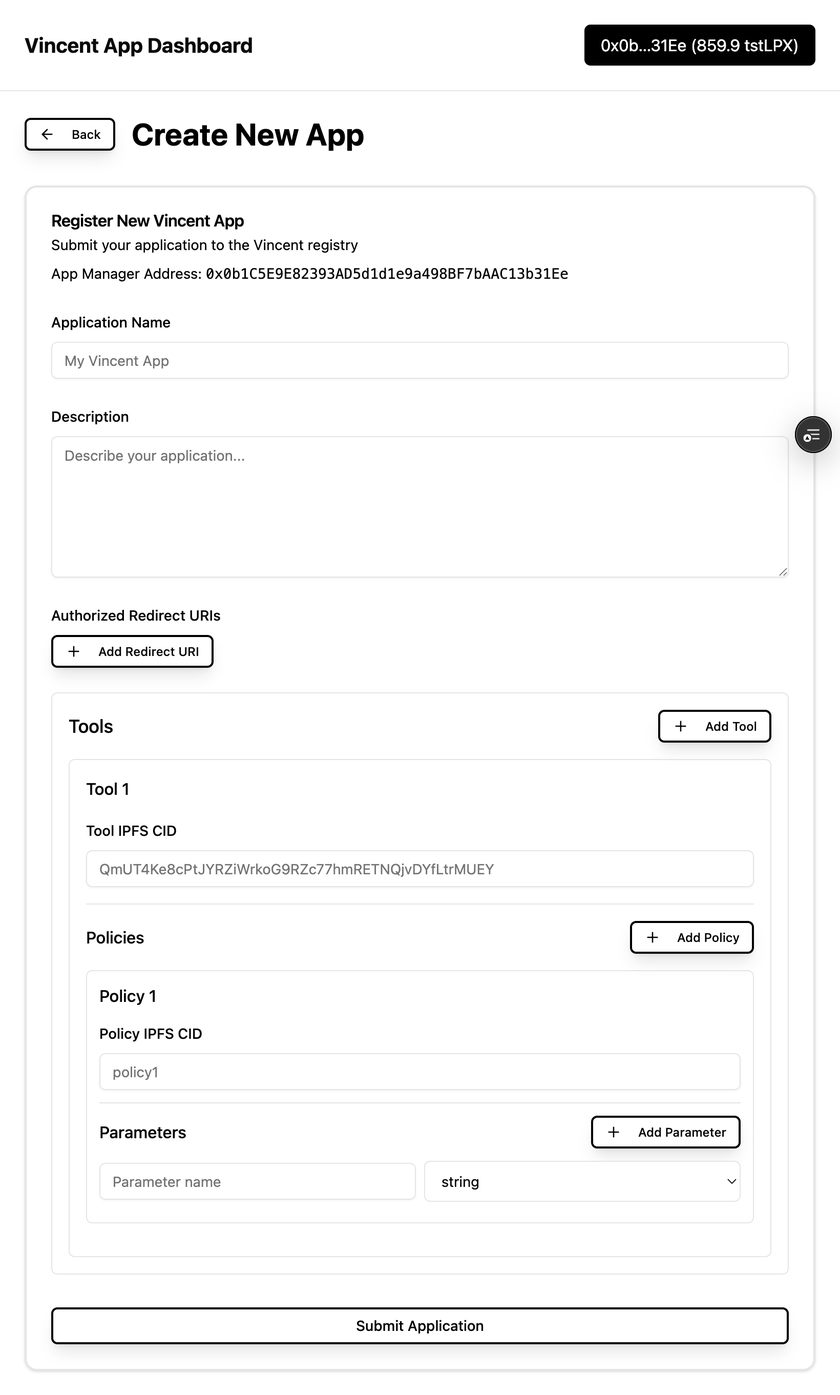
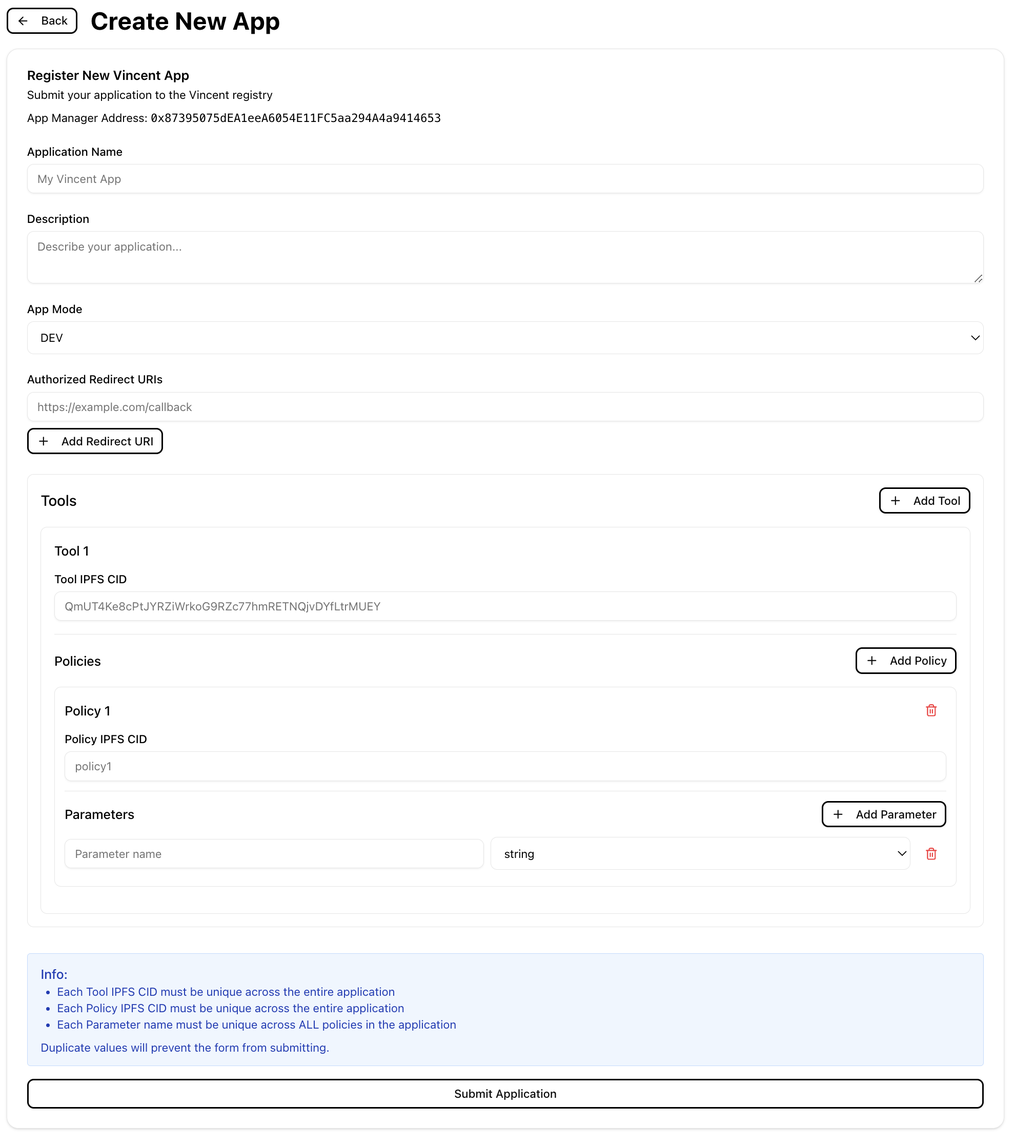
docs: final creating apps doc

diff --git a/packages/sdk/docs/Developers/App-Agent-Developers/Creating-Apps.md b/packages/sdk/docs/Developers/App-Agent-Developers/Creating-Apps.md
@@ -9,17 +9,25 @@ title: Creating Vincent Apps
   <p class="info-box-title">
     <span class="info-icon">Info</span> Note
   </p>
-  <p>In this guide, you'll create and register your first Vincent App using the <a href="https://dashboard.heyvincent.ai/">Vincent App Dashboard</a>. You’ll select from existing Vincent Tools and Policies, configure your App metadata, and register Vincent App Delegatees whom are authorized to execute Tools on behalf of your Vincent Users.</p>
+  <p>In this guide, you'll create and register your first Vincent App using the <a href="https://dashboard.heyvincent.ai/">Vincent App Dashboard</a>. You’ll select from existing Vincent Tools and Policies, configure your App metadata, and register the App Delegatees whom are authorized to execute your App's Tools.</p>
   <p>If you're unfamiliar with what a Vincent App is, checkout the <a href="./Getting-Started.md">Getting Started</a> guide to learn more.</p>
 </div>
 
-A Vincent App is composed of three key elements:
+A Vincent App is composed of four key elements:
 
-1. **Vincent Tools**: Modular, executable functions that define the operations your App can perform on behalf of its Users. Tools can interact with blockchains, APIs, databases, or any service reachable via JavaScript and HTTP requests. Each Tool is immutable once published and can only be executed under the conditions explicitly approved by the User ensuring transparent, tamper-proof behavior.
+1. **Vincent Tools**: Modular, executable functions that define the operations your App can perform on behalf of its Users.
 
-2. **Vincent Policies**: Programmable guardrails that govern when and how Vincent Tools can be executed. Policies are immutable once published, and are configurable per User ensuring that every Tool execution is tightly scoped to each User’s explicit intent.
+   - Tools can interact with blockchains, APIs, databases, or any service reachable via JavaScript and HTTP requests.
+   - Each Tool is immutable once published and can only be executed under the conditions explicitly approved by the User ensuring transparent, tamper-proof behavior.
 
-3. **Vincent Agent Wallets**: Non-custodial smart wallets that enable secure, automated interactions between your Vincent App and its Users. Each Agent Wallet is powered by Lit Protocol's [Programmable Key Pairs (PKPs)](https://developer.litprotocol.com/user-wallets/pkps/overview), allowing Users to retain full control over their keys and assets while delegating narrowly scoped signing permissions for each Vincent Tool used by a Vincent App.
+2. **Vincent Policies**: Programmable guardrails that govern when and how Vincent Tools can be executed.
+
+   - Policies are immutable once published, and are configurable per User ensuring that every Tool execution is tightly scoped to each User’s explicit intent.
+
+3. **Vincent App Delegatees**: Ethereum addresses that are authorized by your App to execute the Tools Vincent Users have permitted your App to execute on their behalf.
+
+4. **Vincent Agent Wallets**: Non-custodial wallets that enable secure, automated interactions between your Vincent App and its Users.
+   - Each Agent Wallet is powered by Lit Protocol's [Programmable Key Pairs (PKPs)](https://developer.litprotocol.com/user-wallets/pkps/overview), allowing Users to retain full control over their keys and assets while delegating narrowly scoped signing permissions for each Vincent Tool used by a Vincent App.
 
 # Defining Your Vincent App
 
@@ -38,17 +46,17 @@ Vincent Tools define the executable operations your App can perform on behalf of
   <p>For now you'll need to manually copy and paste the IPFS CID of each Vincent Tool you'd like to use in your App into the Vincent App Dashboard when registering your App.</p>
   <p>The below table includes links to the IPFS CID of each Tool that will be automatically updated as new iterations of the Tool are published.</p>
 
-  <p>Join the <a href="https://t.me/c/2038294753/3289">Vincent Community</a> to stay up to date.</p>
+  <p>Join the <a href="https://t.me/+aa73FAF9Vp82ZjJh">Vincent Community</a> to stay up to date.</p>
 </div>
 
 The following Vincent Tools have been published by the Vincent team and are available to use in your Vincent App:
 
-| Tool                                                                                                                         | Description                                                                                                                                           | IPFS CID                                                                                                                             |
-| ---------------------------------------------------------------------------------------------------------------------------- | ----------------------------------------------------------------------------------------------------------------------------------------------------- | ------------------------------------------------------------------------------------------------------------------------------------ |
-| [ERC20 Token Approval](https://github.com/LIT-Protocol/Vincent/tree/main/packages/vincent-tools/vincent-tool-erc20-approval) | Allows Vincent Apps to get token approvals from Vincent Users to execute ERC20 token transfers                                                        | [Link](https://github.com/LIT-Protocol/Vincent/blob/main/packages/apps/tool-erc20-approval/src/generated/vincent-tool-metadata.json) |
-| [Uniswap Swap Tool](https://github.com/LIT-Protocol/Vincent/tree/main/packages/vincent-tools/vincent-tool-uniswap-swap)      | Allows Vincent Apps to perform swaps using Uniswap on any [chains supported by the Uniswap SDK](https://api-docs.uniswap.org/guides/supported_chains) | [Link](https://github.com/LIT-Protocol/Vincent/blob/main/packages/apps/tool-uniswap-swap/src/generated/vincent-tool-metadata.json)   |
+| Tool                                                                                                        | Description                                                                                                                                          | IPFS CID                                                                                                                             |
+| ----------------------------------------------------------------------------------------------------------- | ---------------------------------------------------------------------------------------------------------------------------------------------------- | ------------------------------------------------------------------------------------------------------------------------------------ |
+| [ERC20 Token Approval](https://github.com/LIT-Protocol/Vincent/tree/main/packages/apps/tool-erc20-approval) | Allows Vincent Apps to get token approvals from Vincent Users to execute ERC20 token transfers                                                       | [Link](https://github.com/LIT-Protocol/Vincent/blob/main/packages/apps/tool-erc20-approval/src/generated/vincent-tool-metadata.json) |
+| [Uniswap Swap Tool](https://github.com/LIT-Protocol/Vincent/tree/main/packages/apps/tool-uniswap-swap)      | Allows Vincent Apps to perform swaps using Uniswap on any [chain supported by the Uniswap SDK](https://api-docs.uniswap.org/guides/supported_chains) | [Link](https://github.com/LIT-Protocol/Vincent/blob/main/packages/apps/tool-uniswap-swap/src/generated/vincent-tool-metadata.json)   |
 
-Alternatively, you can checkout the [Creating a Vincent Tool](../Tool-Developers/Creating-Tools.md) guide to learn how to create your own Vincent Tools to perform any on or off-chain action your Vincent App needs.
+Additionally, you can checkout the [Creating a Vincent Tool](../Tool-Developers/Creating-Tools.md) guide to learn how to create your own Vincent Tools to perform any on or off-chain action your Vincent App needs.
 
 # 2. Selecting Vincent Policies
 
@@ -58,17 +66,17 @@ Vincent Policies are programmable constraints that govern when and how each Vinc
   <p class="info-box-title">
     <span class="info-icon">Info</span> Note
   </p>
-  <p>As with selecting which Vincent Tool you'd like to use in your App, you'll need to manually copy and paste the IPFS CID of each Vincent Policy you'd like to use in your App into the Vincent App Dashboard when registering your App.</p>
+  <p>As with selecting which Vincent Tools you'd like to use in your App, you'll need to manually copy and paste the IPFS CID of each Vincent Policy you'd like to use for each Tool into the Vincent App Dashboard when registering your App.</p>
   <p>The below table includes links to the IPFS CID of each Policy that will be automatically updated as new iterations of the Policy are published.</p>
 </div>
 
 The following Vincent Policies have been published by the Vincent team and are available to use in your Vincent App:
 
-| Tool                                                                                                                           | Description                                                                                       | IPFS CID                                                                                                                                 |
-| ------------------------------------------------------------------------------------------------------------------------------ | ------------------------------------------------------------------------------------------------- | ---------------------------------------------------------------------------------------------------------------------------------------- |
-| [Daily Spending Limit](https://github.com/LIT-Protocol/Vincent/tree/main/packages/vincent-tools/vincent-policy-spending-limit) | Allows Vincent Users to restrict the amount of USD spent per day on their behalf by a Vincent App | [Link](https://github.com/LIT-Protocol/Vincent/blob/main/packages/apps/policy-spending-limit/src/generated/vincent-policy-metadata.json) |
+| Tool                                                                                                          | Description                                                                                       | IPFS CID                                                                                                                                 |
+| ------------------------------------------------------------------------------------------------------------- | ------------------------------------------------------------------------------------------------- | ---------------------------------------------------------------------------------------------------------------------------------------- |
+| [Daily Spending Limit](https://github.com/LIT-Protocol/Vincent/tree/main/packages/apps/policy-spending-limit) | Allows Vincent Users to restrict the amount of USD spent per day on their behalf by a Vincent App | [Link](https://github.com/LIT-Protocol/Vincent/blob/main/packages/apps/policy-spending-limit/src/generated/vincent-policy-metadata.json) |
 
-Alternatively, you can checkout the [Creating a Vincent Policy](../Policy-Developers/Creating-Policies.md) guide to learn how to create your own Vincent Policies to govern the execution of Vincent Tools.
+Additionally, you can checkout the [Creating a Vincent Policy](../Policy-Developers/Creating-Policies.md) guide to learn how to create your own Vincent Policies to govern the execution of Vincent Tools.
 
 # 3. Registering Your Vincent App
 
@@ -76,14 +84,16 @@ Alternatively, you can checkout the [Creating a Vincent Policy](../Policy-Develo
   <p class="info-box-title">
     <span class="info-icon">Info</span> Before registering your Vincent App
   </p>
-  <p>Registering an App requires that you have tokens on Lit Protocol's Yellowstone blockchain to pay for gas. You can use <a href="https://chronicle-yellowstone-faucet.getlit.dev/">this faucet</a> to get the Lit test tokens used to pay for gas when registering your App.</p>
+  <p>Registering an App requires that you have tokens on Lit Protocol's Yellowstone blockchain to pay for gas. You can use <a href="https://chronicle-yellowstone-faucet.getlit.dev/">this faucet</a> to get the Lit test tokens used to pay for registering your App.</p>
 </div>
 
 Once you've selected your Vincent Tools and Policies, you'll need to register your App using the [Vincent App Dashboard](https://dashboard.heyvincent.ai/).
 
 ## Connecting your App Management Wallet to the App Dashboard
 
-Before you can register your App, you'll need to connect an Ethereum wallet to the App Dashboard. This wallet will be the Vincent App Manager for your new App and is responsible for creating new App Versions, defining which Vincent Tools and Policies are used in each App Version, as well as the managing the App Delegatees that are permitted to execute Tools on behalf of your App's Vincent Users.
+Before you can register your App, you'll need to connect an Ethereum wallet to the App Dashboard.
+
+This wallet will be the Vincent App Manager for your new App and is responsible for creating new App Versions, defining which Vincent Tools and Policies are used in each App Version, as well as the managing the App Delegatees that are permitted to execute Tools on behalf of your App's Vincent Users.
 
 ![Connect App Management Wallet](../images/connect-app-management-wallet.png)
 
@@ -95,21 +105,21 @@ After connecting your Vincent App Manager wallet to the App Dashboard, you can c
 
 On this screen you'll need to define the following:
 
-### Application Name
+### Application Name & Description
 
-This is the name of your App that will be used to identify your App within the Vincent ecosystem. It's also displayed to the Vincent User when they are interacting with the Vincent Consent page to permit delegation to your App and configure their Policy parameters.
+This is the name of your App that will be used to identify your App within the Vincent ecosystem, and the description used to detail what your App is offering to do on behalf of its Users.
 
-In the example image, `Automated Memecoin Dollar-Cost-Averaging` is the name of the Vincent App, and `This demo agent automatically identifies and purchases the top-performing Base memecoin on your predefined schedule.` is the description of the App.
+It's also displayed to the Vincent User when they are interacting with the Vincent Consent page to permit delegation to your App and configure their Policy parameters.
+
+In this example image, `Automated Memecoin Dollar-Cost-Averaging` is the name of the Vincent App, and `This demo agent automatically identifies and purchases the top-performing Base memecoin on your predefined schedule.` is the description of the App:
 
 ![Consent UI](../images/consent-ui.png)
 
-### Description
-
-This description will also be displayed to your Vincent Users when they're displayed the Vincent Consent page
-
 ### App Mode
 
-Defines the current deployment status of your App. This setting will be used to filter the Apps displayed in the Vincent App Registry, so that `DEV` and `TEST` Apps are not displayed to Vincent Users when looking at the Registry. Use:
+Defines the current deployment status of your App.
+
+This setting will be used to filter the Apps displayed in the Vincent App Registry, so that `DEV` and `TEST` Apps are not displayed to Vincent Users when looking at the Registry. Use:
 
 - `DEV` If you're currently developing the Vincent App and it's not ready to be used by your Vincent Users
 - `TEST` If you're currently testing the Vincent App with your Vincent Users, and want to make the distinction that your App is not yet ready for production
@@ -119,40 +129,50 @@ Defines the current deployment status of your App. This setting will be used to 
 
 This is a list of URLs that are authorized to receive the Json Web Token (JWT) from the Vincent Consent page.
 
-After Vincent Users have permitted delegation to your App, or are logging back into your App using Vincent, these redirect URIs are the only valid locations they can be redirected to from the Vincent Consent page. Included in the URL parameters of the redirect URI is the Json Web Token (JWT) that is given to your App to identify the Vincent User and the App Version they've authorized, so that you can know which Vincent Tools and Policies the User has permitted you to execute on their behalf.
+After Vincent Users have permitted delegation to your App, or are logging back into your App using Vincent, these redirect URIs are the only valid locations they can be redirected to from the Vincent Consent page back to your App.
+
+Included in the URL parameters of the redirect URI is a Json Web Token (JWT) that is given to your App to identify the Vincent User and the App Version they've authorized. This allows you to know which Vincent Tools and Policies the User has permitted your App to execute on their behalf.
 
 ### Tools
 
-This section is where you'll define the IPFS CIDs of each Vincent Tool that will be used in your App. You can copy and paste the IPFS CID of each Tool you'd like to use in your App into this section. For the available Tools, see the [Selecting Vincent Tools](#1-selecting-vincent-tools) section which contains links to the IPFS CIDs for each Tool, or use the IPFS CID of any custom Tool you've developed.
+This section is where you'll define the IPFS CIDs of each Vincent Tool that will be used in your App. You can copy and paste the IPFS CID of each Tool you'd like your App to use into this section.
+
+For the available Tools, see the [Selecting Vincent Tools](#1-selecting-vincent-tools) section which contains links to the IPFS CIDs for each Tool, or use the IPFS CID of any custom Tool you've developed.
+
+> **Note:** The [Creating a Vincent Tool](../Tool-Developers/Creating-Tools.md) guide contains instructions for how to create your own Vincent Tools to perform any on or off-chain action your Vincent App needs.
 
 #### Policies
 
-Each Vincent Tool has a list of supported Vincent Policies that can govern the execution of the Tool. It's up to you to select from the Tool's supported Policies which Policies your Users will have the option to enable and configure for each Tool your App uses.
+Each Vincent Tool has a list of supported Vincent Policies that can govern the execution of the Tool. It's up to you to select which Policies from the Tool's supported Policies your Users will have the option to enable and configure for each Tool your App uses.
 
 You can add Policies for each Tool by clicking the `Add Policy` button and copy and pasting the IPFS CID of each Policy.
 
 For the Tools mentioned in the [Selecting Vincent Tools](#1-selecting-vincent-tools) section, the following Policies are supported:
 
-| Tool | Supported Policies | Policy IPFS CID |
-| [ERC20 Token Approval](https://github.com/LIT-Protocol/Vincent/tree/main/packages/vincent-tools/vincent-tool-erc20-approval) | None | - |
-| [Uniswap Swap Tool](https://github.com/LIT-Protocol/Vincent/tree/main/packages/vincent-tools/vincent-tool-uniswap-swap) | [Daily Spending Limit](https://github.com/LIT-Protocol/Vincent/tree/main/packages/vincent-tools/vincent-policy-spending-limit) | [Link](https://github.com/LIT-Protocol/Vincent/blob/main/packages/apps/policy-spending-limit/src/generated/vincent-policy-metadata.json)
+| Tool                                                                                                        | Supported Policies                                                                                            | Policy IPFS CID                                                                                                                          |
+| ----------------------------------------------------------------------------------------------------------- | ------------------------------------------------------------------------------------------------------------- | ---------------------------------------------------------------------------------------------------------------------------------------- |
+| [ERC20 Token Approval](https://github.com/LIT-Protocol/Vincent/tree/main/packages/apps/tool-erc20-approval) | None                                                                                                          | -                                                                                                                                        |
+| [Uniswap Swap Tool](https://github.com/LIT-Protocol/Vincent/tree/main/packages/apps/tool-uniswap-swap)      | [Daily Spending Limit](https://github.com/LIT-Protocol/Vincent/tree/main/packages/apps/policy-spending-limit) | [Link](https://github.com/LIT-Protocol/Vincent/blob/main/packages/apps/policy-spending-limit/src/generated/vincent-policy-metadata.json) |
 
 ##### Policy Parameters
 
-Each Policy has parameters that can be configured by the Vincent User to explicitly define the conditions under which the Tool can be executed. This section is where you'll define the parameters for each Policy that can be configured by the Vincent User for the specific Tool it's associated with.
+Each Policy has parameters that can be configured by the Vincent User to explicitly define the conditions under which the Tool can be executed.
 
-Each Policy has a parameter name and type. The name and type of each parameter must match the name and type the Policy is expecting.
+This section is where you'll define the parameters for each Policy that can be configured by the Vincent User for the specific Tool it's associated with.
+
+Each Policy has a parameter name and type, where the name and type of each parameter must match what the Policy is expecting.
 
 For the Policies mentioned in the [Selecting Vincent Policies](#2-selecting-vincent-policies) section, the following parameters are supported:
 
-| Policy | Parameter Name | Parameter Type |
-| [Daily Spending Limit](https://github.com/LIT-Protocol/Vincent/tree/main/packages/vincent-tools/vincent-policy-spending-limit) | `maxDailySpendingLimitInUsdCents` | `uint256` |
+| Policy                                                                                                        | Parameter Name                    | Parameter Type |
+| ------------------------------------------------------------------------------------------------------------- | --------------------------------- | -------------- |
+| [Daily Spending Limit](https://github.com/LIT-Protocol/Vincent/tree/main/packages/apps/policy-spending-limit) | `maxDailySpendingLimitInUsdCents` | `uint256`      |
 
 After defining the above details for your App, you can click on the `Submit Application` button to create your App. This will prompt you to sign a transaction using your App Management Wallet to register your App on-chain using the Lit Protocol [Chronicle Yellowstone blockchain](https://developer.litprotocol.com/connecting-to-a-lit-network/lit-blockchains/chronicle-yellowstone).
 
 ## Adding Delegatees to your App
 
-In order to execute your App's Vincent Tools, you'll need to register App Delegatees. These delegatees are defined as Ethereum addresses that are authorized by your App to execute the Tools Vincent Users have permitted your App to execute on their behalf.
+In order to execute your App's Vincent Tools, you'll need to register App Delegatees. These delegatees are defined as Ethereum addresses that are authorized by your App to execute the Tools Vincent Users have permitted for your App.
 
 After creating your App, you'll be redirected to the dashboard overview screen. Click the box with the name of the App you just created, and you'll be taken to the App's settings screen.
 
@@ -163,8 +183,8 @@ Next click the `Manage Delegatees` button to add the App Delegatees you'd like t
 You will now be given two buttons:
 
 - `Generate Delegatee` - This will generate a new Ethereum wallet giving you the private key and Ethereum address of the new wallet
-  - Use this option if you don't have an existing wallet you'd like to use as a App Delegatee
-- `Add Delegatee` - This will prompt you to provide the Ethereum address of the existing wallet you'd like to authorize as a App Delegatee
+  - Use this option if you don't have an existing wallet you'd like to use as an App Delegatee
+- `Add Delegatee` - This will prompt you to provide the Ethereum address of an existing wallet you'd like to authorize as an App Delegatee
 
 Whether you choose to generate a new wallet or add an existing wallet, you'll be prompted to sign a transaction using your App Management Wallet to register the App Delegatee on-chain using the Lit Protocol [Chronicle Yellowstone blockchain](https://developer.litprotocol.com/connecting-to-a-lit-network/lit-blockchains/chronicle-yellowstone).
 
@@ -184,28 +204,27 @@ After selecting the Authorized Redirect URI, click on the `Copy Application URL`
 https://dashboard.heyvincent.ai/appId/526/consent?redirectUri=https%3A%2F%2Fyour-redirect-uri.com
 ```
 
-You can now share this link to allow people to delegate the ability to execute your App's Vincent Tools on their behalf.
+You can now share this link to allow Users to delegate the ability to execute your App's Vincent Tools on their behalf.
 
 # Wrapping Up
 
-You’ve now learned how to create and register a Vincent App using the [Vincent App Dashboard](https://dashboard.heyvincent.ai/). From selecting Tools and Policies to configuring App metadata and adding Delegatees, you’ve completed the full setup process to launch your Vincent App and start executing Vincent Tools on behalf of your Vincent Users.
+You’ve now learned how to create and register a Vincent App using the [Vincent App Dashboard](https://dashboard.heyvincent.ai/).
+
+From selecting Tools and Policies to configuring App metadata and adding Delegatees, you’ve completed the full setup process to launch your Vincent App and start executing Vincent Tools on behalf of your Vincent Users.
 
 Here’s a quick recap of what you covered:
 
-- Vincent Apps are composed of Vincent Tools, Policies, and App Delegatees, enabling your app to perform trusted actions on behalf of users.
-- You can select from published Tools and Policies, or define your own to support any on-chain or off-chain use case.
-- When registering your App, you’ll configure App metadata, authorize redirect URIs, and define which Tools and Policies your app will support in it's App Version.
-- After registration, you’ll add Delegatees as authorized Ethereum addresses that can execute Tools on behalf of users.
-- Finally, you’ll generate a Vincent Consent URL to let users review your App, authorize the Tools it uses, and configure Policy parameters.
-
-- **Understand the Core Concepts:** A Vincent App is composed of Vincent Tools (what your App can do), Vincent Policies (User defined guardrails), and App Delegatees (Ethereum addresses authorized to execute Tools). These components work together to enable trusted automation without sacrificing User control.
-- **Select Vincent Tools:** Choose from existing Tools like ERC20 Approvals or Uniswap Swaps, or build your own Tools to define the actions your App can perform on behalf of it's Users.
-- **Select Vincent Policies:** Add programmable constraints to each Tool such as spending limits or token allowlists that ensure each execution respects the User’s intent.
-- **Register Your App:** Use the Dashboard to define your App including details such as it's name, description, authorized redirect URIs, and the selected Tools and Policies.
-- **Add Delegatees:** Specify the Ethereum addresses that will act on behalf of your Vincent App to execute Tools Users have permitted.
-- **Share Your App Link:** Generate a Vincent Consent URL that lets Users delegatee access to their Vincent Agent Wallets, so that your App Delegatees can execute Tools on their behalf.
+- **Understanding the Core Concepts:** A Vincent App is composed of the following components that work together to enable trusted automation without sacrificing User control:
+  - Vincent Tools (what your App can do)
+  - Vincent Policies (User defined guardrails)
+  - App Delegatees (Ethereum addresses authorized to execute Tools)
+- **Selecting Vincent Tools:** Choose from existing Tools like ERC20 Approvals or Uniswap Swaps, or build your own Tools to define the actions your App can perform on behalf of it's Users.
+- **Selecting Vincent Policies:** Add programmable constraints to each Tool such as spending limits or token allowlists that ensure each execution respects the User’s intent.
+- **Registering Your App:** Use the Vincent App Dashboard to define your App including details such as it's name, description, authorized redirect URIs, and the selected Tools and Policies.
+- **Adding Delegatees:** Specify the Ethereum addresses that will act on behalf of your Vincent App to execute Tools Users have permitted.
+- **Generating Your App Link:** Generate a Vincent Consent URL that lets Users delegatee access to their Vincent Agent Wallets, so that your App Delegatees can execute Tools on their behalf.
 
 ## Next Steps
 
-- If your App requires the ability to perform an action not offered by existing Vincent Tools, checkout how to get started with [Creating a Vincent Tool](../Tool-Developers/Getting-Started.md) to learn how to create your own Vincent Tools to perform any on or off-chain action your Vincent App needs.
-- If the existing Vincent Policies don't meet your App's needs, checkout how to get started with [Creating a Vincent Policy](../Policy-Developers/Getting-Started.md) to learn how to create your own Vincent Policies to govern the execution of your App's Vincent Tools.
+- If your App requires the ability to perform an action not offered by existing Vincent Tools, checkout how to get started with [Creating a Vincent Tool](../Tool-Developers/Getting-Started.md) to learn how to perform any on or off-chain action your Vincent App needs.
+- If the existing Vincent Policies don't meet your App's needs, checkout how to get started with [Creating a Vincent Policy](../Policy-Developers/Getting-Started.md) to learn how to create your own Vincent Policies to govern the execution of Vincent Tools.
